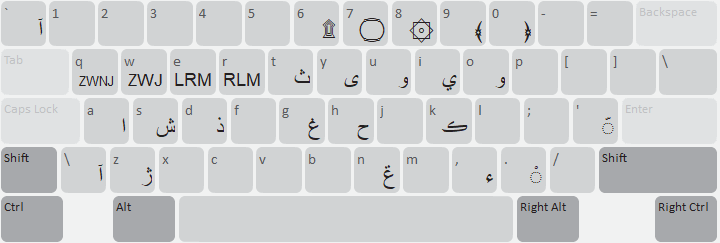
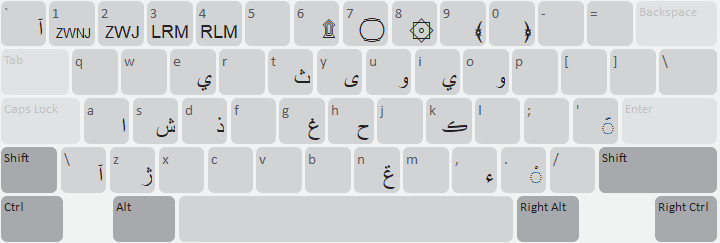
[swhaili_ajami_qwerty] Update to keyboard

Changed region(s): [[0.0611, 0.0864, 0.3361, 0.1728], [0.0917, 0.2881, 0.3667, 0.3745]]

diff --git a/release/s/swahili_ajami_qwerty/HISTORY.md b/release/s/swahili_ajami_qwerty/HISTORY.md
@@ -1,6 +1,11 @@
 Swahili Ajami (QWERTY) Change History
 ====================
 
+1.0.1 (2026-07-24)
+----------------
+* Revise shift layer so "E" exactly follows original layout
+* Move ZWNJ, ZWJ, LRM, RLM to shifted number keys
+
 1.0 (2026-06-26)
 ----------------
 * Created by Lorna Evans